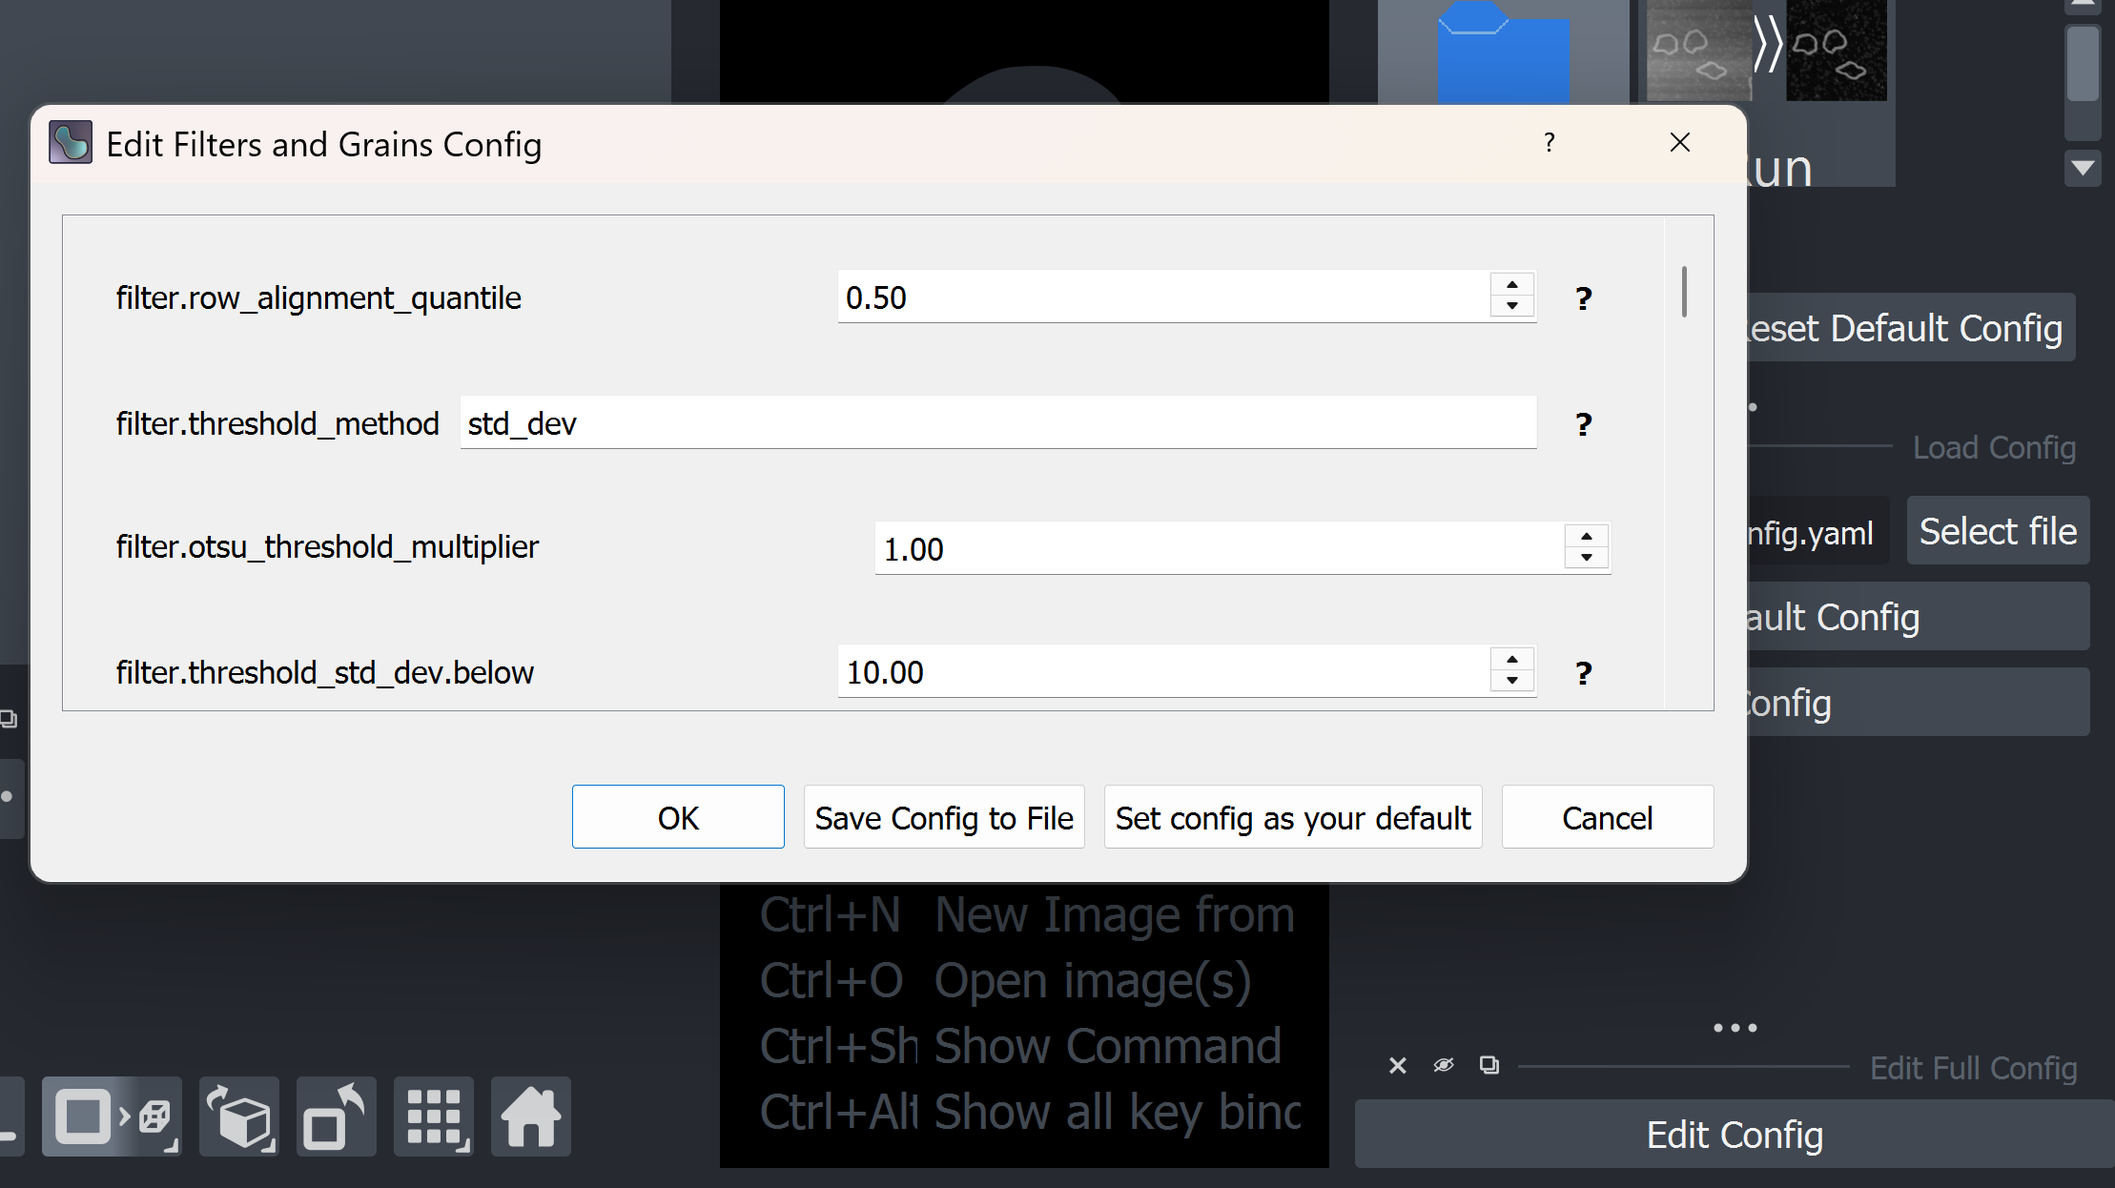
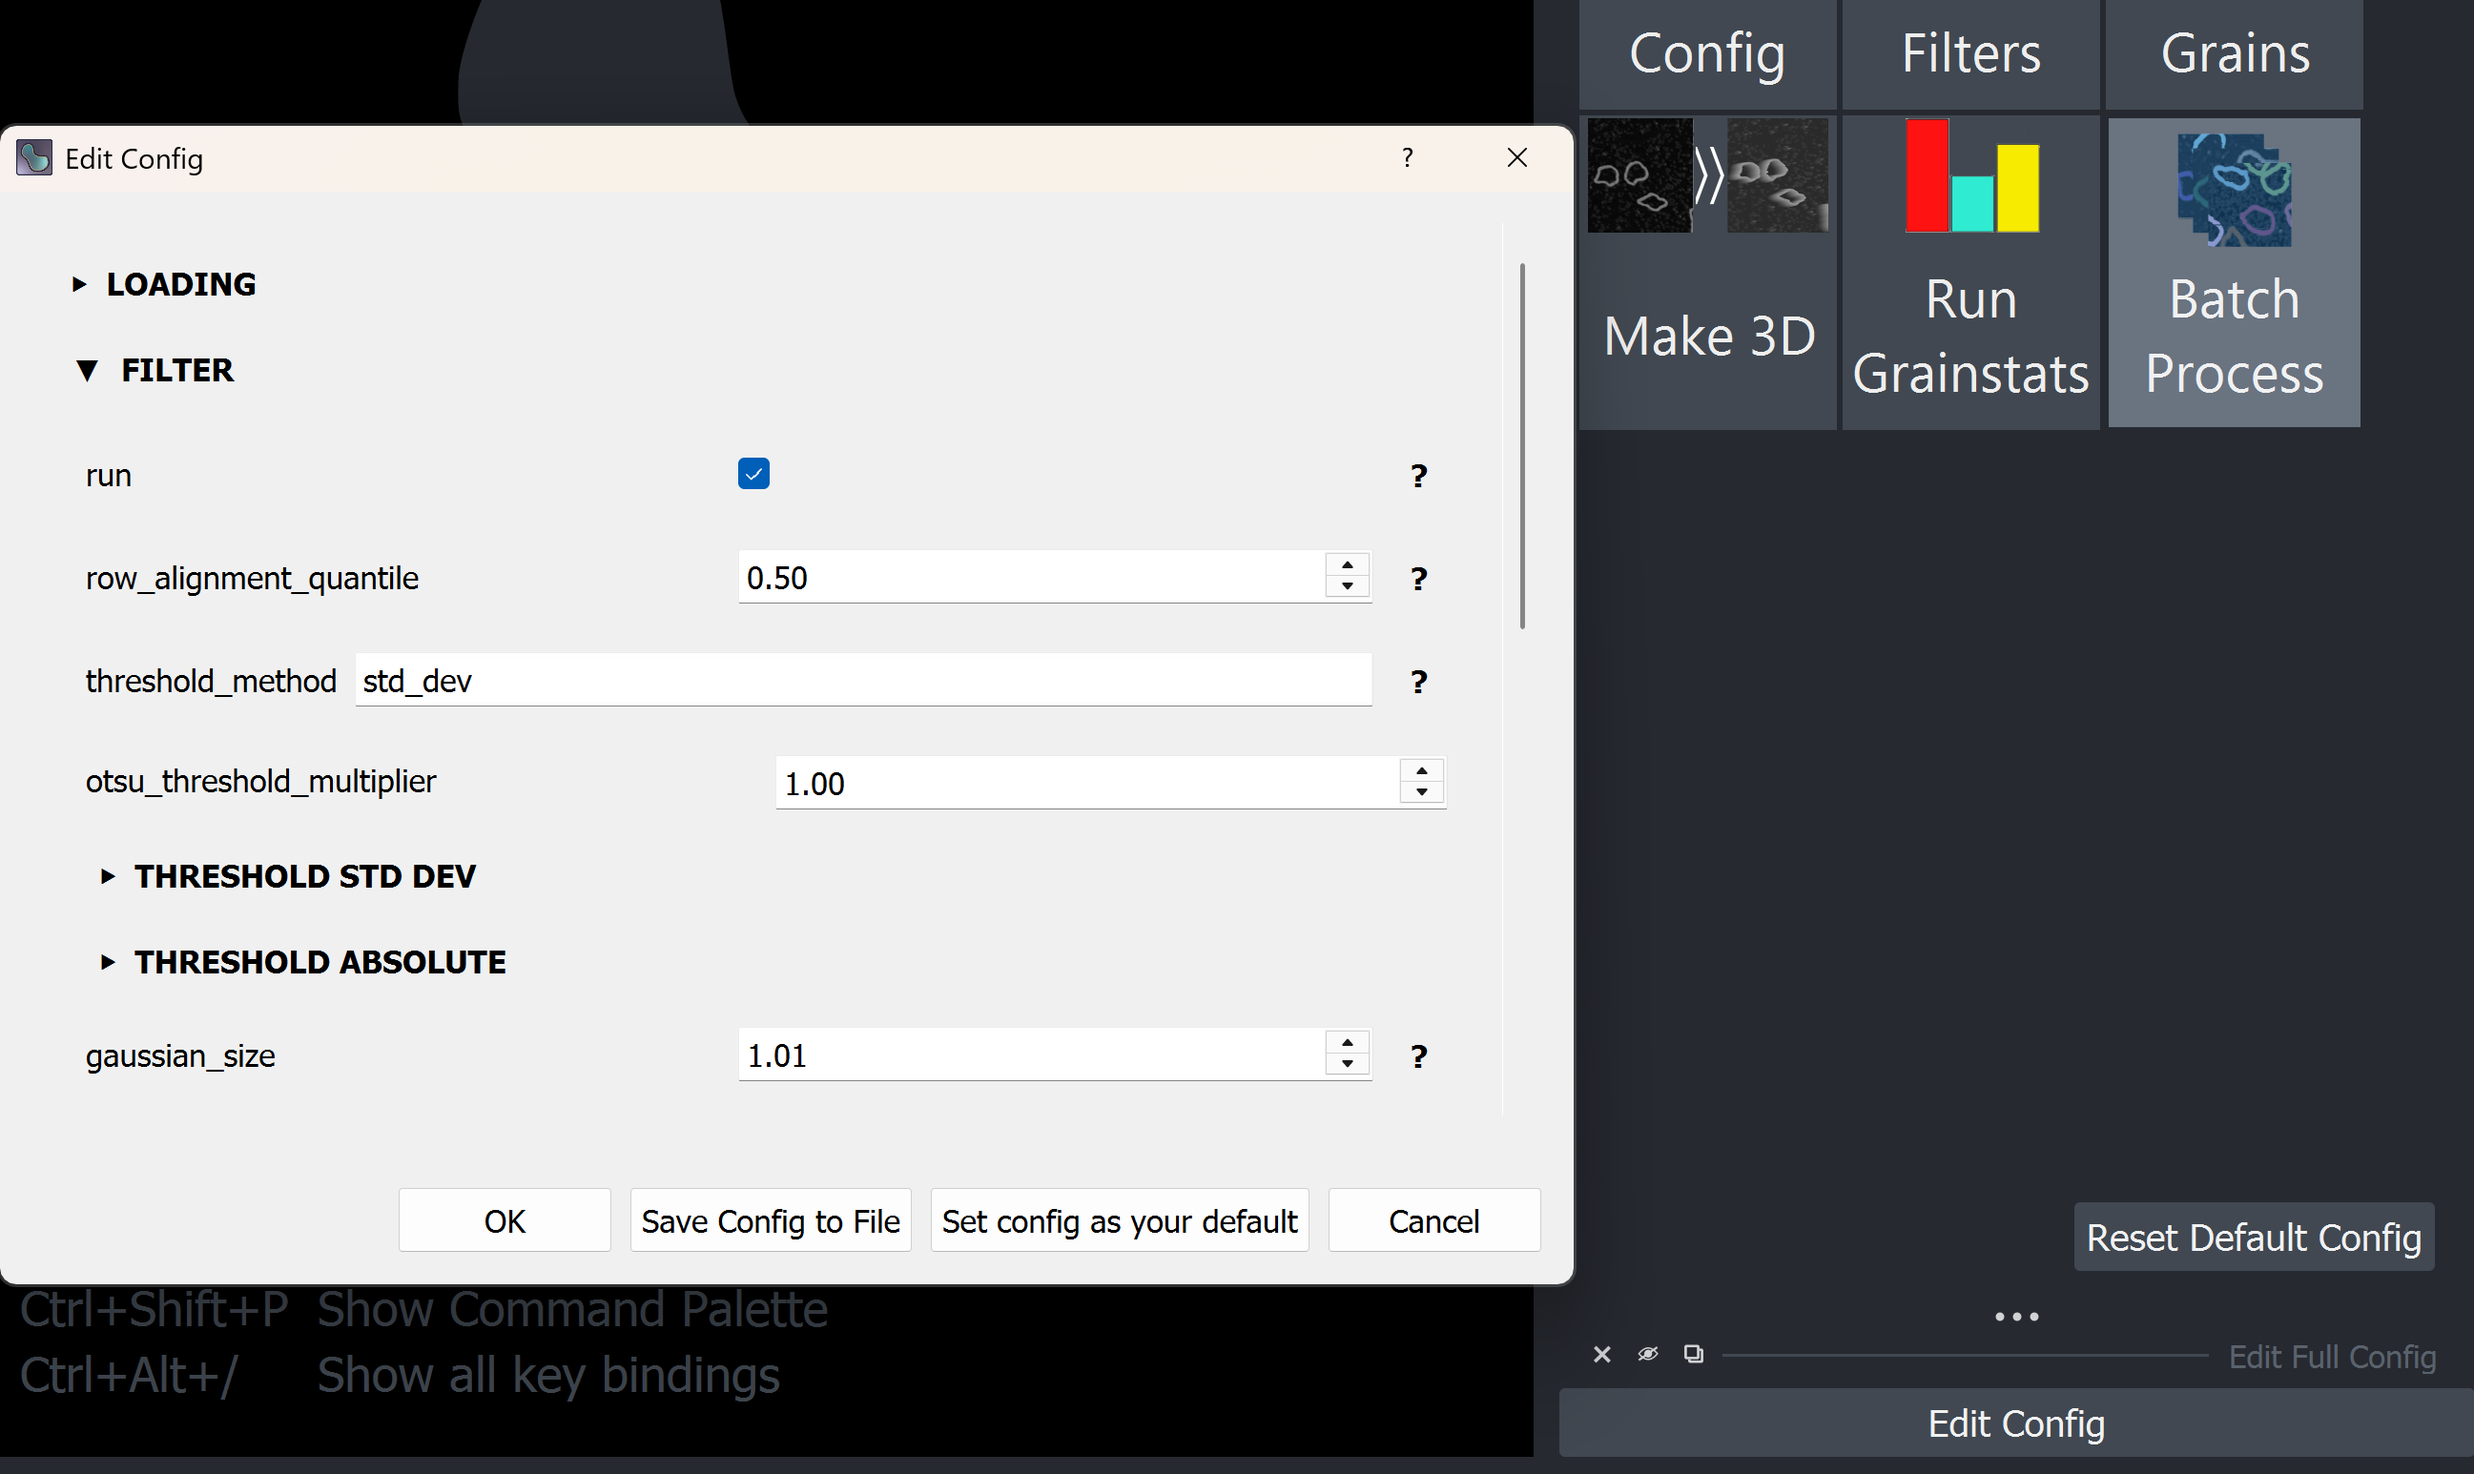
Updated documentation

diff --git a/README.md b/README.md
@@ -42,6 +42,7 @@ You can then run napari with:
 To load an image into the napari viewer, drag and drop your image file into the window.
 A small window will open prompting you to input the input channel for the image you are loading.
 Enter the channel used by your image (e.g. Height). The loaded image will appear as a layer in the GUI.
+Note: this loading utility comes from [napari-AFMReader].
 
 <img src="readme_images/input_channel_window.png" width="800" alt="Input channel window"/>
 
@@ -58,17 +59,18 @@ Before running the function, you can choose to load a config file using the butt
 Both json and yaml file formats are supported.
 This config will be used for the functions you run until you close napari.
 There is also a button to save that file as the new default (instead of the topostats generated one). This default can
-be reset to the topostats default at anytime by clicking the Reset
-Default Config button in the bottom right of the main window.
+be reset to the topostats default at anytime by clicking the Reset Default Config button in the bottom right
+of the main window.
 
 <img src="readme_images/config_file.png" width="800" alt="Loading a config file"/>
 
-If you don't load a config file manually, a default config file ("_generated_config.yaml") is created (in your user
-config directory for napari topostats) when you run a function which will then be used for all subsequent functions.
-Once a config is loaded, either manually or automatically, an edit config window will appear, allowing the config file
-to be edited directly through the napari gui. Changes made are not automatically saved to the loaded config file,
-however, the updated config file can be saved as a file with the Save to file button at the bottom of the window.
-In this window, there is also a button to save the editted config file as the new default.
+When you run a function which requires the config, if you haven't loaded a config file manually, a default
+configuration is used which will be the config you have set as default if you have set one. If you haven't, the
+topostats default will be used.
+Once a config is loaded, either manually or automatically, an edit config button will appear, which opens a window
+allowing the config file to be edited directly through the napari gui. Changes made are not automatically saved
+to the loaded config file, however, the updated config file can be saved as a file with the Save to file button
+at the bottom of the window. In this window, there is also a button to save the edited config file as the new default.
 
 <img src="readme_images/edit_config_window.png" width="800" alt="Edit config window"/>
 
@@ -80,6 +82,15 @@ can be adjusted outside of those in the config file.
 
 <img src="readme_images/function_window.png" width="800" alt="Function window"/>
 
+**Batch Process** is a special function that works the same as if running `topostats process` in the command line,
+using the config you currently have loaded or the default config (with adjusted options if you have updated your
+default) if you haven't loaded a config. If the default is used, a window will appear asking you to select a directory
+which contains the data to be processed as well as a directory to save the output files to (which you may want to
+create with the new folder button if the directory doesn't exist). Otherwise, the directories defined in the config
+file will be used. Once these have been defined topostats will process in the background (the output and progress
+can been seen in the command line). You can carry on using napari while this happens.
+<img src="readme_images/batch_process.png" width="800" alt="Function window"/>
+
 Current functions:
 
 1. Load config button allows a config file to be selected from your hard disk.
@@ -89,6 +100,7 @@ Current functions:
 the viewer) is automatically switched to 3D.
 5. Run Grainstats requires a labels layer **created by the Run Grains function** to be selected and creates an
 interactivate table in the dock on the right.
+6. Batch process uses the full topostats pipeline to process a directory of files. View above for details.
 
 ## Contributing
 
@@ -98,12 +110,13 @@ the coverage at least stays the same before you submit a pull request.
 ## License
 
 Distributed under the terms of the [MIT] license,
-"napari-loadafm" is free and open source software
+"napari-topostats" is free and open source software
 
 ## Issues
 
 If you encounter any problems, please [file an issue] along with a detailed description.
 
+[napari-AFMReader]: https://github.com/AFM-SPM/napari-AFMReader
 [Cookiecutter]: https://github.com/audreyr/cookiecutter
 [Git installed]: https://git-scm.com/book/en/v2/Getting-Started-Installing-Git
 [MIT]: http://opensource.org/licenses/MIT
@@ -111,3 +124,4 @@ If you encounter any problems, please [file an issue] along with a detailed desc
 [napari]: https://github.com/napari/napari
 [pip]: <https://pypi.org/project/pip/>
 [tox]: https://tox.readthedocs.io/en/latest/
+[file an issue]: https://github.com/AFM-SPM/napari-TopoStats/issues
